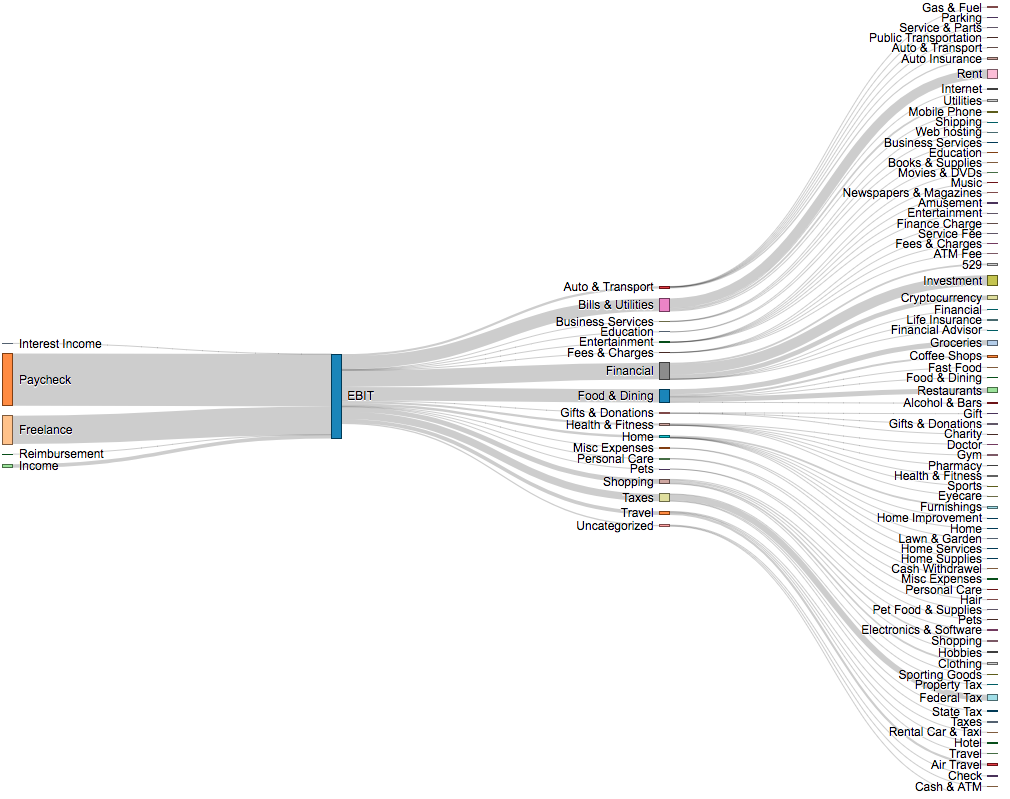
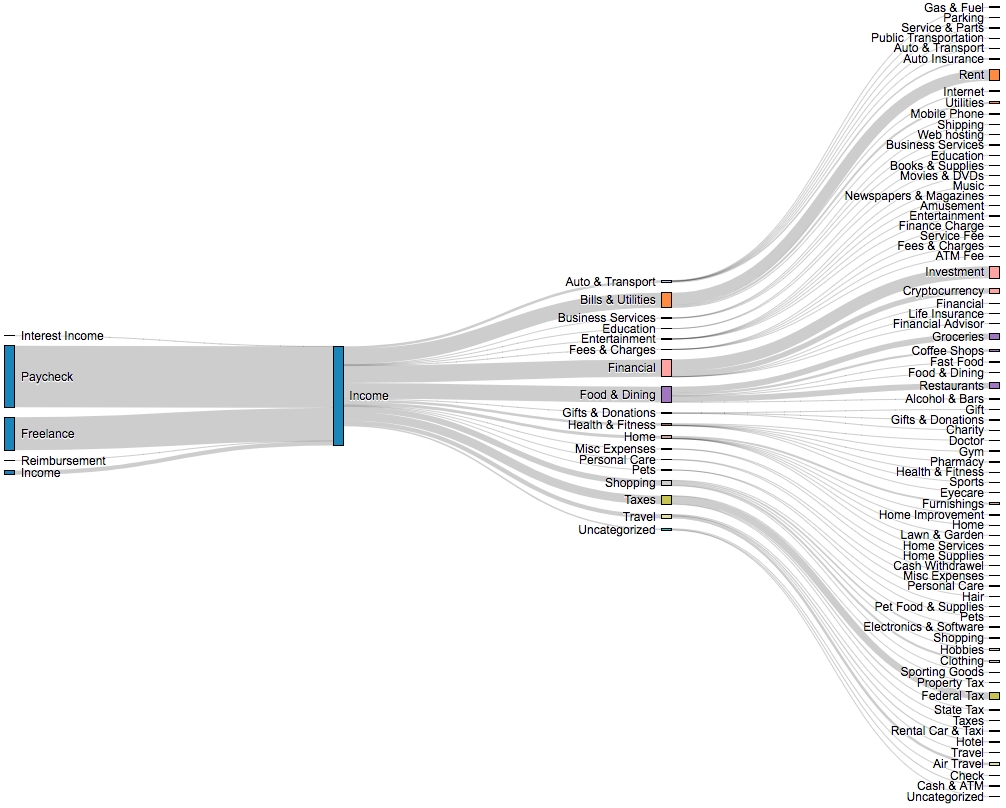
color nodes by category

Changed region(s): [[0.0, 0.0, 1.0, 1.0]]

diff --git a/mint_to_sankey.js b/mint_to_sankey.js
@@ -1,22 +1,23 @@
-function prepData(dat, incomeParent='Income') {
+function prepData(dat, incomeParent) {
     /*
      * Prepare data for use with Sankey plot.
      *
      * @param dat {obj} : input data of the form
      * @param incomeParent {str} : name of parent group for all income, this
-     *    node is used to join credit transactions to debit transactions.
+     *    node is used to join credit transactions to debit transactions. If
+     *    not specified, all transactions are considered debit.
      * 
      * @return {obj} : data for Sankey chart in the form
      *       {"nodes": 
      *         [
-     *           {"id": "Alice"},
-     *           {"id": "Bob"},
-     *           {"id": "Carol"}
+     *           {"name": "Utilities", "Transaction Type": "debit"},
+     *           {"name": "Rent", "Transaction Type": "debit"},
+     *           {"name": "Bills & Utilities", "Transaction Type": "debit"}
      *         ],
      *        "links":
      *         [
-     *           {"source": "Alice", "target": "Bob"},
-     *           {"source": "Bob", "target": "Carol"}
+     *           {"source": "Bills & Utilities", "target": "Rent", "value":932.3},
+     *           {"source": "Bill & Utilities", "target": "Utilities", "value":74.00}
      *         ]
      *       }
      */
@@ -43,7 +44,7 @@ function prepData(dat, incomeParent='Income') {
     // simply be ignored.
     var groups = {
         'Auto & Transport': ['Gas & Fuel','Parking','Service & Parts','Public Transportation','Auto Insurance','Auto Payment'],
-        'Bills & Utilities': ['Internet','Utilities','Mobile Phone','Rent','Home Phone','Mortgage & Rent'],
+        'Bills & Utilities': ['Internet','Utilities','Mobile Phone','Rent','Home Phone'],
         'Business Services': ['Shipping','Web hosting'],
         'Education': ['Books & Supplies'],
         'Entertainment': ['Movies & DVDs','Music','Newspapers & Magazines','Amusement','Entertainment'],
@@ -61,7 +62,9 @@ function prepData(dat, incomeParent='Income') {
         'Travel': ['Rental Car & Taxi','Hotel','Air Travel'],
         'Uncategorized': ['Cash & ATM','Check']
     }
-    groups[incomeParent] = ['Interest Income', 'Freelance', 'Reimbursement', 'Paycheck']
+    if (typeof(incomeParent) !== 'undefined') {
+        groups[incomeParent] = ['Interest Income', 'Freelance', 'Reimbursement', 'Paycheck']
+    }
 
     for (var group in groups) {
 
@@ -136,13 +139,27 @@ function prepData(dat, incomeParent='Income') {
         return all_nodes.indexOf(node.name) != -1;
     })
 
-    // add links between credit and debit
-    for (var group in debitSum) {
-        links.push({
-            'source': '_'+incomeParent,
-            'target': '_'+group,
-            'value': debitSum[group]
-        })
+
+    // add links between credit and debit if incomeParent specified
+    // otherwise assume all transaction are debit and manually
+    // generate an 'All debit' parent node.
+    if (typeof(incomeParent) !== 'undefined') {
+        for (var group in debitSum) {
+            links.push({
+                'source': '_'+incomeParent,
+                'target': '_'+group,
+                'value': debitSum[group]
+            })
+        }
+    } else {
+        for (var group in debitSum) {
+            links.push({
+                'source': 'All debit',
+                'target': '_'+group,
+                'value': debitSum[group]
+            })
+        }
+        nodes.push({'name':'All debit'})
     }
 
     return {'nodes':nodes, 'links':links}

diff --git a/index.html b/index.html
@@ -20,6 +20,7 @@
             margin: 0px;
             padding: 0px;
             width: 100%;
+            height: 100%;
         }
 
         .nvd3 {
@@ -61,10 +62,19 @@
     var width = 1000,
     height = 800;
 
-    var data = prepData(data_raw);
+    var data = prepData(data_raw, 'Income');
     console.log(data)
 
     nv.addGraph(function() {
+
+        function cleanName(name) {
+            // parent nodes will have a prepended '_' on its name
+            // to allow a child by the same name
+            // this returns any node name with the removed '_'
+            // if it exists
+            return name.substring(0,1) == '_' ? name.substring(1,name.length) : name
+        }
+
         var chart = nv.models.sankeyChart()
             .width(width)
             .height(height)
@@ -77,18 +87,45 @@
             })
             .nodeStyle({
                 title: function(d) {
-                    var name = d.name
-                    name = name.substring(0,1) == '_' ? name.substring(1,name.length) : d.name
-                    return name + '\n' + '$' + d3.format(',.0f')(d.value);
+                    return cleanName(d.name) + '\n' + '$' + d3.format(',.0f')(d.value);
                 },
                 label: function(d) {
-                    var name = d.name
-                    return name.substring(0,1) == '_' ? name.substring(1,name.length) : d.name;
+                    return cleanName(d.name);
                 },
                 fillColor: function(d) {
-                    var color = d3.scale.category10()
-                                  .domain(['debit','credit'])
-                    return color(d['Transaction Type'])
+                    var domain = [
+                        'Income',
+                        'Auto & Transport',
+                        'Bills & Utilities',
+                        'Business Services',
+                        'Education',
+                        'Entertainment',
+                        'Fees & Charges',
+                        'Financial',
+                        'Food & Dining',
+                        'Gifts & Donations',
+                        'Health & Fitness',
+                        'Home',
+                        'Misc Expenses',
+                        'Personal Care',
+                        'Pets',
+                        'Shopping',
+                        'Taxes',
+                        'Travel',
+                        'Uncategorized',
+                    ]
+                    var color = d3.scale.category20()
+                                  .domain(domain)
+
+                    var name = cleanName(d.name);
+                    if (d.sourceLinks.length === 0) {
+                        // if child debit, grab parent name
+                        name = cleanName(d.targetLinks[0].source.name);
+                    } else if (d['Transaction Type'] == 'credit') {
+                        name = 'Income';
+                    }
+
+                    return color(name)
                 }
             })
 
